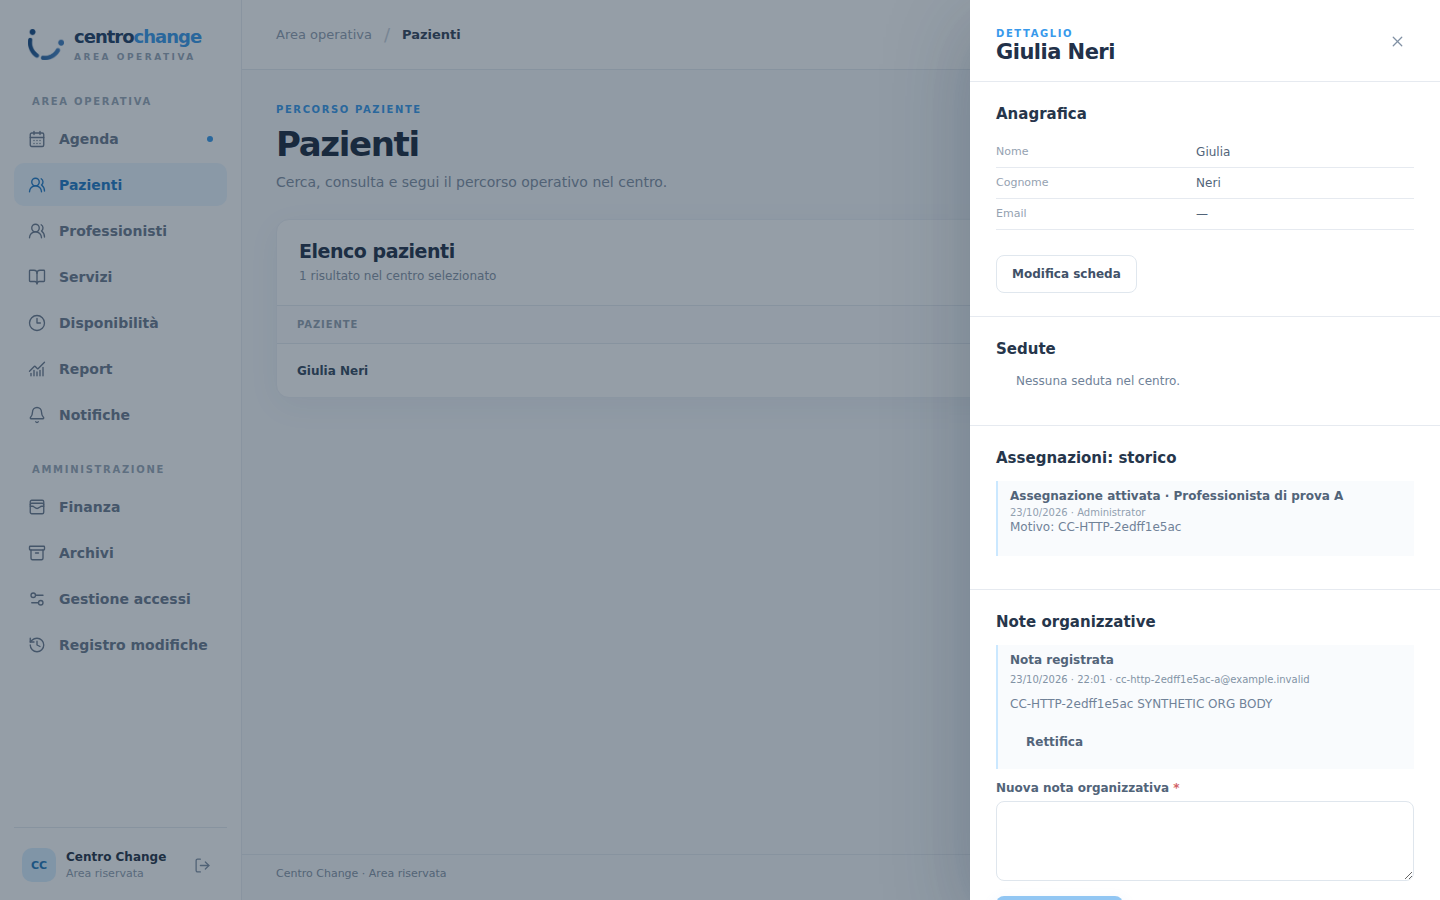
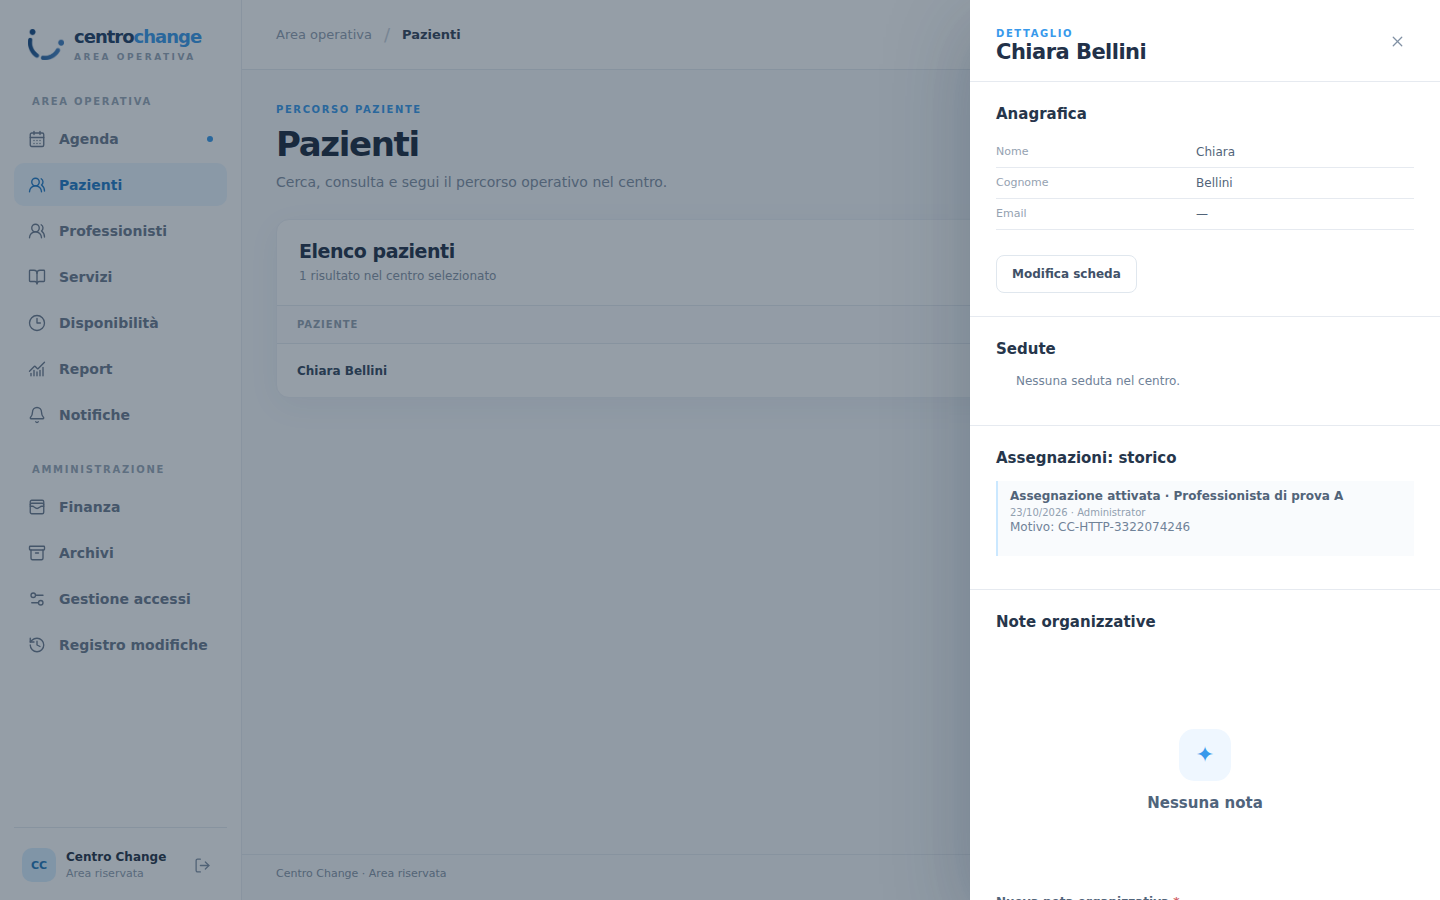
test(audit-04): prove Frappe isolate e UAT UX Pazienti

diff --git a/frontend/premium/tests/patients.live.spec.ts b/frontend/premium/tests/patients.live.spec.ts
@@ -5,7 +5,7 @@ import { resolve } from 'node:path'
 
 type Role = 'manager' | 'secretariat' | 'professional_a' | 'professional_b' | 'professional_c' | 'finance' | 'accountant'
 type Fixture = { synthetic_only: true; tag: string; center_a: string; center_b: string;
-  patient_a: string; patient_b: string; practitioner_a: string; practitioner_b: string;
+  patient_a: string; patient_b: string; patient_mvp: string; patient_real: string; practitioner_a: string; practitioner_b: string;
   template: string; package: string; appointment_type: string; manager_second: string; roles: Record<Role, string> }
 const path = process.env.CC_PATIENTS_ISOLATED_FIXTURE
 if (!path || process.env.CC_PATIENTS_ISOLATED !== 'YES') throw new Error('Private AUDIT-04 clone fixture required')
@@ -20,7 +20,7 @@ const fixture = JSON.parse(readFileSync(privateFile(path), 'utf8')) as Fixture
 const roles: Role[] = ['manager', 'secretariat', 'professional_a', 'professional_b', 'professional_c', 'finance', 'accountant']
 if (fixture.synthetic_only !== true || !/^CC-HTTP-[A-Za-z0-9]{10}$/.test(fixture.tag) ||
     !fixture.center_a || !fixture.center_b || fixture.center_a === fixture.center_b ||
-    !fixture.patient_a || !fixture.patient_b || !fixture.template || !fixture.package ||
+    !fixture.patient_a || !fixture.patient_b || !/^CC-MVP-POS-/.test(fixture.patient_mvp) || !/^CC-MVP-POS-/.test(fixture.patient_real) || !fixture.template || !fixture.package ||
     !fixture.appointment_type || !fixture.manager_second || roles.some(role => !fixture.roles[role]))
   throw new Error('AUDIT-04 fixture inventory incomplete')
 for (const role of roles) privateFile(fixture.roles[role])
@@ -44,21 +44,21 @@ async function post(ctx: BrowserContext, token: string, name: string, args: Reco
 test('UX-04 live isolato: nome Patient reale, fallback onesto, ricerca contestuale e centro A/B', async ({ browser }, info) => {
   const ctx = await context(browser, 'manager')
   try {
-    const detail = await get(ctx, 'operations.profiles.patient_detail', { center: fixture.center_a, name: fixture.patient_a })
+    const detail = await get(ctx, 'operations.profiles.patient_detail', { center: fixture.center_a, name: fixture.patient_real })
     expect(detail.response.ok()).toBeTruthy()
     const displayName = `${detail.body.message.first_name} ${detail.body.message.last_name}`.trim()
     expect(displayName).not.toMatch(/^CC-/i)
     const firstName = String(detail.body.message.first_name)
     const boot = await get(ctx, 'operations.workspace.bootstrap', { center: fixture.center_a })
     expect(boot.response.ok()).toBeTruthy()
-    const own = (boot.body.message?.patients ?? []).find((row: { name: string }) => row.name === fixture.patient_a)
+    const own = (boot.body.message?.patients ?? []).find((row: { name: string }) => row.name === fixture.patient_real)
     expect(own).toMatchObject({ first_name: detail.body.message.first_name, last_name: detail.body.message.last_name })
     const searched = await get(ctx, 'operations.workspace.patient_search', { center: fixture.center_a, query: firstName })
     expect(searched.response.ok()).toBeTruthy()
-    expect((searched.body.message?.patients ?? []).map((row: { name: string }) => row.name)).toContain(fixture.patient_a)
+    expect((searched.body.message?.patients ?? []).map((row: { name: string }) => row.name)).toContain(fixture.patient_real)
     const foreign = await get(ctx, 'operations.workspace.patient_search', { center: fixture.center_b, query: firstName })
     expect(foreign.response.ok()).toBeTruthy()
-    expect((foreign.body.message?.patients ?? []).map((row: { name: string }) => row.name)).not.toContain(fixture.patient_a)
+    expect((foreign.body.message?.patients ?? []).map((row: { name: string }) => row.name)).not.toContain(fixture.patient_real)
 
     const page = await ctx.newPage()
     await page.goto('/premium/#Pazienti')
@@ -66,12 +66,12 @@ test('UX-04 live isolato: nome Patient reale, fallback onesto, ricerca contestua
     await expect(page.getByRole('combobox', { name: 'Ricerca globale pazienti' })).toHaveCount(0)
     await page.getByRole('textbox', { name: 'Cerca pazienti' }).fill(firstName)
     await expect(page.locator('tbody')).toContainText(displayName)
-    await expect(page.locator('tbody')).not.toContainText(fixture.patient_a)
+    await expect(page.locator('tbody')).not.toContainText(fixture.patient_real)
     await page.locator('tbody tr').first().click()
     const drawer = page.getByRole('dialog', { name: displayName })
     await expect(drawer.getByRole('heading', { name: displayName })).toHaveCount(1)
     await expect(drawer.getByRole('heading', { name: 'Anagrafica' })).toBeVisible()
-    await expect(drawer).not.toContainText(fixture.patient_a)
+    await expect(drawer).not.toContainText(fixture.patient_real)
     await page.screenshot({ path: info.outputPath(`ux-04-live-patient-${info.project.name}.png`), fullPage: true })
     await drawer.getByRole('button', { name: 'Chiudi' }).click()
     await page.getByRole('combobox', { name: 'Centro' }).selectOption(fixture.center_b)
@@ -105,6 +105,47 @@ test('UX-04 live isolato: nuova proiezione Patient non allarga ruoli o accesso d
   } finally { await guest.close() }
 })
 
+test('UX-04 live isolato: CC-MVP-POS incompleto resta distinguibile dopo refresh; Agenda proietta solo sedute autorizzate', async ({ browser }, info) => {
+  test.skip(info.project.name !== 'desktop')
+  const manager = await context(browser, 'manager')
+  try {
+    const page = await manager.newPage()
+    await page.goto('/premium/#Pazienti')
+    const token = await csrf(page)
+    await page.getByRole('combobox', { name: 'Centro' }).selectOption(fixture.center_a)
+    await page.getByRole('textbox', { name: 'Cerca pazienti' }).fill(fixture.patient_mvp)
+    await expect(page.locator('tbody')).toContainText('Anagrafica da completare · scheda')
+    await expect(page.locator('tbody')).not.toContainText(fixture.patient_mvp)
+    const before = await page.locator('tbody tr').first().innerText()
+    await page.reload()
+    await page.getByRole('combobox', { name: 'Centro' }).selectOption(fixture.center_a)
+    await page.getByRole('textbox', { name: 'Cerca pazienti' }).fill(fixture.patient_mvp)
+    await expect(page.locator('tbody tr').first()).toHaveText(before)
+    await page.screenshot({ path: info.outputPath('ux-04-live-mvp-fallback-desktop.png'), fullPage: true })
+    const foreign = await get(manager, 'operations.workspace.patient_search', { center: fixture.center_b, query: fixture.patient_mvp })
+    expect(foreign.response.ok()).toBeTruthy()
+    expect((foreign.body.message?.patients ?? []).map((row: { name: string }) => row.name)).not.toContain(fixture.patient_mvp)
+    const booked = await post(manager, token, 'scheduling.booking.book', {
+      patient: fixture.patient_mvp, practitioner: fixture.practitioner_a, center: fixture.center_a,
+      appointment_type: fixture.appointment_type, appointment_date: '2099-01-12', appointment_time: '09:00:00',
+      request_key: fixture.tag + '-ux04-mvp-agenda', reason: 'Seduta sintetica per proiezione Agenda' })
+    expect(booked.response.ok()).toBeTruthy()
+    for (const role of ['manager', 'secretariat', 'professional_a'] as Role[]) {
+      const ctx = await context(browser, role)
+      try {
+        const agenda = await get(ctx, 'operations.workspace.agenda', { center: fixture.center_a, start: '2099-01-12', end: '2099-01-18' })
+        expect(agenda.response.ok(), `${role} Agenda HTTP`).toBeTruthy()
+        const row = (agenda.body.message?.appointments ?? []).find((item: { patient: string }) => item.patient === fixture.patient_mvp)
+        expect(row, `${role} sees only assigned synthetic appointment`).toBeTruthy()
+        expect(row.patient_first_name).toMatch(/^CC-MVP-POS-/)
+        expect(row.patient_last_name).toBeFalsy()
+        const denied = await get(ctx, 'operations.workspace.agenda', { center: fixture.center_b, start: '2099-01-12', end: '2099-01-18' })
+        if (denied.response.ok()) expect((denied.body.message?.appointments ?? []).some((item: { patient: string }) => item.patient === fixture.patient_mvp)).toBeFalsy()
+      } finally { await ctx.close() }
+    }
+  } finally { await manager.close() }
+})
+
 test('scheda Pazienti reale: ricerca, profilo, note, pacchetto e responsive', async ({ browser }, info) => {
   const ctx = await context(browser, 'manager')
   try {
@@ -115,11 +156,11 @@ test('scheda Pazienti reale: ricerca, profilo, note, pacchetto e responsive', as
     await page.getByRole('combobox', { name: 'Centro' }).selectOption(fixture.center_a)
     await page.getByRole('textbox', { name: 'Cerca pazienti' }).fill(fixture.tag + '-inesistente')
     await expect(page.getByText('Nessun paziente trovato')).toBeVisible()
-    await page.getByRole('textbox', { name: 'Cerca pazienti' }).fill(fixture.tag)
+    await page.getByRole('textbox', { name: 'Cerca pazienti' }).fill(fixture.patient_a)
     await expect(page.locator('tbody tr')).toHaveCount(1)
     await page.locator('tbody tr').first().click()
     const drawer = page.getByRole('dialog')
-    await expect(drawer.getByRole('heading', { name: /Paziente/ }).first()).toBeVisible()
+    await expect(drawer.getByRole('heading', { level: 2 })).toHaveCount(1)
     await expect(drawer.getByRole('heading', { name: 'Anagrafica' })).toBeVisible()
     await expect(drawer.getByRole('heading', { name: 'Note organizzative' })).toBeVisible()
     await expect(drawer.getByRole('heading', { name: 'Pacchetti' })).toBeVisible()
@@ -289,7 +330,7 @@ test('browser reale: form paziente, validazione, nota e persistenza', async ({ b
     const page = await ctx.newPage()
     await page.goto('/premium/#Pazienti')
     await page.getByRole('combobox', { name: 'Centro' }).selectOption(fixture.center_a)
-    await page.getByRole('textbox', { name: 'Cerca pazienti' }).fill(fixture.tag)
+    await page.getByRole('textbox', { name: 'Cerca pazienti' }).fill(fixture.patient_a)
     await expect(page.locator('tbody tr')).toHaveCount(1)
     await page.locator('tbody tr').click()
     const drawer = page.getByRole('dialog')
@@ -304,7 +345,7 @@ test('browser reale: form paziente, validazione, nota e persistenza', async ({ b
     await expect(drawer.getByRole('heading', { name: /Paziente prova interfaccia/ }).first()).toBeVisible()
     await page.reload()
     await page.getByRole('combobox', { name: 'Centro' }).selectOption(fixture.center_a)
-    await page.getByRole('textbox', { name: 'Cerca pazienti' }).fill(fixture.tag)
+    await page.getByRole('textbox', { name: 'Cerca pazienti' }).fill(fixture.patient_a)
     await page.locator('tbody tr').click()
     await expect(page.getByRole('dialog').getByText('Paziente prova interfaccia').first()).toBeVisible()
     const note = page.getByRole('dialog').getByRole('textbox', { name: 'Nuova nota organizzativa' })
@@ -490,7 +531,7 @@ test('storico seduta reale: prenotazione, riserva, cancellazione e rilascio pacc
     const after = await get(manager, 'operations.workspace.appointment_events', { appointment: name })
     expect(after.body.message.some((row: { event_type: string }) => row.event_type === 'SESSION_CANCELLED')).toBeTruthy()
     await page.getByRole('combobox', { name: 'Centro' }).selectOption(fixture.center_a)
-    await page.getByRole('textbox', { name: 'Cerca pazienti' }).fill(fixture.tag)
+    await page.getByRole('textbox', { name: 'Cerca pazienti' }).fill(fixture.patient_a)
     await page.locator('tbody tr').first().click()
     const drawer = page.getByRole('dialog')
     if (inVisibleHistory) {
@@ -598,7 +639,7 @@ test('ultima revoca: Direzione legge storico, scritture bloccate e riattivazione
       expect(direct.response.ok()).toBeFalsy()
     }
     await page.getByRole('combobox', { name: 'Centro' }).selectOption(fixture.center_a)
-    await page.getByRole('textbox', { name: 'Cerca pazienti' }).fill(fixture.tag)
+    await page.getByRole('textbox', { name: 'Cerca pazienti' }).fill(fixture.patient_a)
     await expect(page.locator('tbody tr').filter({ hasText: 'Storico' }).first()).toBeVisible()
     await page.locator('tbody tr').filter({ hasText: 'Storico' }).first().click()
     const drawer = page.getByRole('dialog')
@@ -755,7 +796,7 @@ test('storico oltre cento sedute: limite e avviso espliciti', async ({ browser }
     expect(history.body.message.truncated).toBe(true)
     expect(history.body.message.appointments).toHaveLength(100)
     await page.getByRole('combobox', { name: 'Centro' }).selectOption(fixture.center_a)
-    await page.getByRole('textbox', { name: 'Cerca pazienti' }).fill(fixture.tag)
+    await page.getByRole('textbox', { name: 'Cerca pazienti' }).fill(fixture.patient_a)
     await page.locator('tbody tr').first().click()
     await expect(page.getByRole('dialog').getByText('Mostrate le ultime 100 sedute.')).toBeVisible()
   } finally { await manager.close() }

diff --git a/docs/qa/AUDIT-04-UX-REMEDIATION.md b/docs/qa/AUDIT-04-UX-REMEDIATION.md
@@ -1,6 +1,6 @@
 # AUDIT-04 #167 — Prosecuzione UX-04, PR DRAFT #168
 
-**Stato del candidato:** sviluppo in branch `issue-167/patients-audit`, DEV **non modificato**. La decisione `SINGLE_CLIENT_UI_PREMIUM_ONLY` è già attiva sul DEV tramite PR #169 e rimane vincolante. Questa PR non incorpora ancora #169: prima di un futuro gate DEV occorre costruire un candidato che contenga entrambi gli alberi e verificare routing, manifest e SHA risultanti.
+**Stato del candidato:** `PENDING_CI` sullo SHA finale, dopo PASS tecnico locale e Frappe isolato; sviluppo in branch `issue-167/patients-audit`, DEV **non modificato**. La decisione `SINGLE_CLIENT_UI_PREMIUM_ONLY` è già attiva sul DEV tramite PR #169 e rimane vincolante. Questa PR non incorpora ancora #169: prima di un futuro gate DEV occorre costruire un candidato che contenga entrambi gli alberi e verificare routing, manifest e SHA risultanti.
 
 ## Correzioni
 
@@ -16,8 +16,20 @@ Il clone isolato del primo candidato ha mostrato che otto Patient posseduti dal 
 
 - Python offline: proiezione scoped dei nomi e caso appuntamento fuori bootstrap; nessun nuovo DocType/DocPerm.
 - React typecheck/build, manifest sorgente e Playwright mock desktop/mobile: regressioni UX, search aperta/chiusa, due nomi incompleti distinguibili, Agenda fuori bootstrap, lista/drawer e sicurezza di navigazione.
-- Frappe/MariaDB reale: clone temporaneo con Site, DB e rete separati; browser e API per sette ruoli più Guest, centri A/B, screenshot. **L'esito definitivo e il digest immagine devono essere riportati dopo la prova del candidato finale**, non dedotti dal precedente clone.
-- Reviewer indipendente: la prima review ha trovato nome incompleto ambiguo, Agenda oltre 500 e test live dipendente dallo stato; le tre correzioni sono nel candidato e richiedono verifica sul diff finale.
-- DEV condiviso: `NOT_TESTED` per questa PR; nessun deploy o cambiamento di dati, schema, ruoli o permessi autorizzato in questa fase.
+- Frappe/MariaDB reale: immagine applicativa `sha256:4ba222ea03c37c5c12d4f4512bbabfcd92194ee9df9d2a91ea113818752d84ce`, sorgente `d70a43bcaf9251f72cae353e595f1a280f972d37`, manifest/asset PASS. Clone temporaneo con Site, DB e rete separati: restore cifrato di 6 componenti, 55 entry Site e 929 tabelle, confronto schema/conteggi/hash critici PASS. Suite browser/API su clone fresco: **21 PASS, 17 SKIP** per casi desktop-only; Sette ruoli più Guest e centri A/B inclusi; `CC-HTTP-*` e `CC-MVP-POS-*` reali in fixture esclusivamente sintetiche.
+- Reviewer indipendente: la prima review ha trovato nome incompleto ambiguo, Agenda oltre 500 e test live dipendente dallo stato. La seconda review del diff ha verificato il ramo `get_all` ristretto agli appuntamenti già autorizzati per Segreteria/Professionista e non ha trovato blocker statici. La prova HTTP Agenda su Manager, Segreteria e Professionista è PASS nel clone; un test Python impedisce la regressione `get_list` Patient senza DocPerm.
+- DEV condiviso: `NOT_TESTED` per questa PR; nessun deploy o cambiamento di dati, schema, ruoli o permessi autorizzato in questa fase. L'immagine backend DEV è rimasta `sha256:540f8f87c2802cd35fa85ecdbe48f38037a5611fb3e3f4d0fdae5b861fde267c`. Le dieci risorse Docker del clone finale sono state rimosse per ID verificato; backup cifrato e prove private restano fuori Git.
 
 **Gate DEV residuo:** autorizzazione specifica #167 dopo riconciliazione PR #169, CI su SHA finale, nuovo checkpoint cifrato completo, restore isolato PASS e rollback indipendente. Solo allora eventuale installazione dei sei servizi applicativi previsti; nessun merge automatico.
+
+## Screenshot rappresentativi
+
+- [Scheda reale desktop](../evidence/audit-04-patients/ux-live-patient-desktop.png) · [mobile](../evidence/audit-04-patients/ux-live-patient-mobile.png): «Chiara Bellini», un solo titolo e campi Marley coerenti.
+- [Anagrafica incompleta CC-MVP-POS](../evidence/audit-04-patients/ux-live-mvp-fallback-desktop.png) e [fallback mobile](../evidence/audit-04-patients/ux-live-fallback-mobile.png): riferimento opaco e stabile. Le stringhe tecniche nel campo di ricerca sono query digitate dal test; i motivi di audit della fixture riflettono input sintetico e non sono trasformati in dati inventati.
+- [Ricerca contestuale aperta desktop](../evidence/audit-04-patients/ux-search-open-desktop.png) · [mobile](../evidence/audit-04-patients/ux-search-open-mobile.png): focus e risultati senza overflow.
+
+## Esito e decisione DEV
+
+`READY_FOR_DEV_GATE`, subordinato ai check GitHub sullo SHA pubblicato, significa che il codice di presentazione e le API scoped sono pronti alla **richiesta del gate di installazione**, non che il DEV sia già aggiornato o che l'Owner abbia accettato Pazienti. La PR #168 resta DRAFT. Il gate deve: (1) riconciliare PR #169, ancora DRAFT, così che l'immagine target includa il routing Premium primario; (2) eseguire CI sull'ultimo SHA e verificare manifest/image/source parity; (3) checkpoint cifrato nuovo, restore reale isolato e rollback indipendente; (4) sostituire soltanto i sei servizi applicativi se tutti i controlli sono PASS; (5) verificare `/premium/#Pazienti`, accessi diretti, ruoli, centri e `cc_premium_primary=1` senza toccare schema, dati storici o produzione. La nuova autorizzazione `DEV_INSTALL_ALLOWED` della Issue #167 è obbligatoria.
+
+La suite GitHub Actions non usa DEV, segreti o dati reali. Il suo esito va letto dai checks della PR sulla HEAD pubblicata; i test locali non sono CI GitHub.
